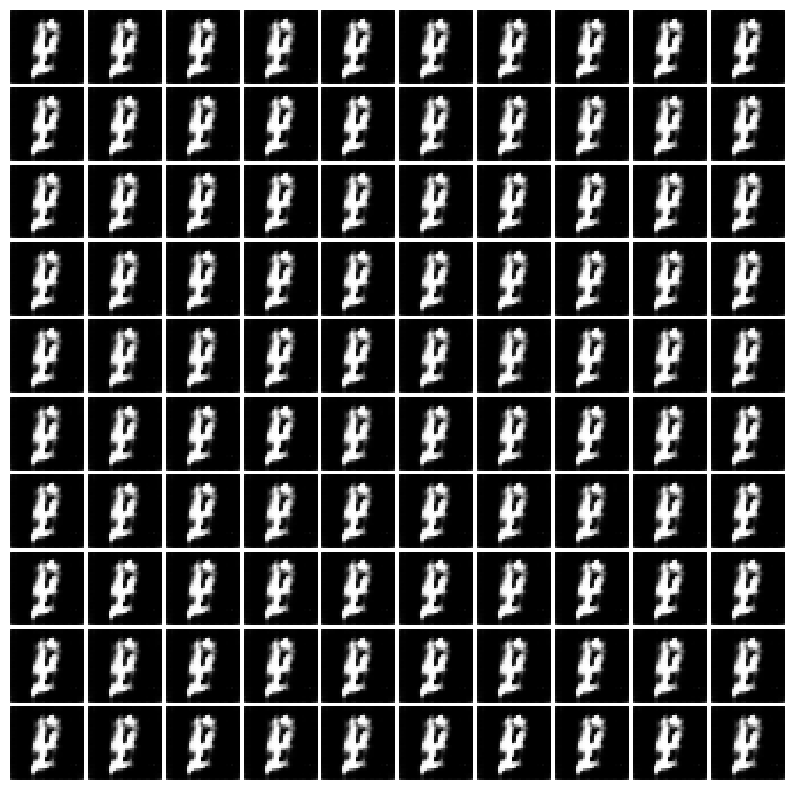
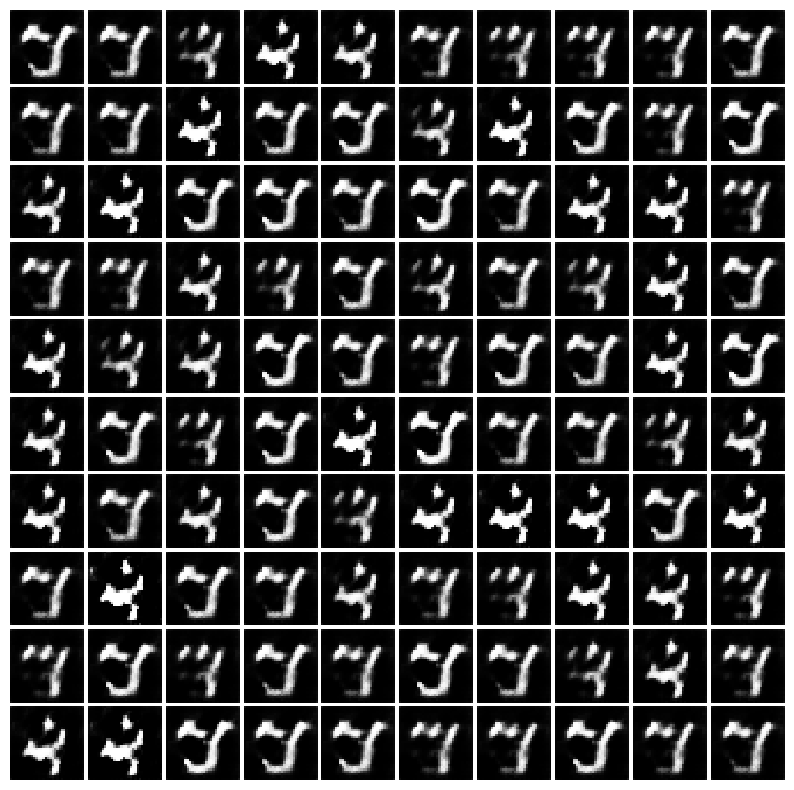
grads zeroed

Changed region(s): [[0.0302, 0.0, 0.7859, 1.0], [0.8161, 0.0, 0.9975, 1.0]]

diff --git a/improved_gan_mnist.py b/improved_gan_mnist.py
@@ -34,135 +34,73 @@ def generate_nosie(batch_size, dim=100):
 	noise = torch.randn(batch_size, dim, 1, 1)
 	return noise
 
-# class Discriminator(nn.Module):
-# 	def __init__(self):
-# 		super(Discriminator, self).__init__()
-# 		self.conv1 = nn.Sequential(
-# 			nn.Conv2d(1, 32, [5,5], stride=[1,1]),
-# 			nn.LeakyReLU(negative_slope=.01),
-# 			nn.MaxPool2d([2,2], stride=[2,2]))
-# 		self.conv2 = nn.Sequential(
-# 			nn.Conv2d(32, 64, [5,5], stride=[1,1]),
-# 			nn.LeakyReLU(negative_slope=.01),
-# 			nn.MaxPool2d([2,2], stride=[2,2]))
-# 		self.fc1 = nn.Sequential(
-# 			nn.Linear((64*5*5), (64*5*5)),
-# 			nn.LeakyReLU(negative_slope=.01))
-# 		self.fc2 = nn.Sequential(
-# 			nn.Linear((64*5*5), 1),
-# 			nn.Sigmoid())
+class Discriminator(nn.Module):
+	def __init__(self):
+		super(Discriminator, self).__init__()
+		self.conv1 = nn.Sequential(
+			nn.Conv2d(1, 32, [5,5], stride=[1,1]),
+			nn.LeakyReLU(negative_slope=.01),
+			nn.MaxPool2d([2,2], stride=[2,2]))
+		self.conv2 = nn.Sequential(
+			nn.Conv2d(32, 64, [5,5], stride=[1,1]),
+			nn.LeakyReLU(negative_slope=.01),
+			nn.MaxPool2d([2,2], stride=[2,2]))
+		self.fc1 = nn.Sequential(
+			nn.Linear((64*5*5), (64*5*5)),
+			nn.LeakyReLU(negative_slope=.01))
+		self.fc2 = nn.Sequential(
+			nn.Linear((64*5*5), 1),
+			nn.Sigmoid())
 
 
-# 	def forward(self, x, matching=False):
-# 		out = self.conv1(x)
-# 		out = self.conv2(out)
-# 		out = out.view(out.shape[0], -1)
-# 		out = self.fc1(out)
-# 		final = self.fc2(out)
-# 		if matching:
-# 			return out, final
-# 		return final
+	def forward(self, x, matching=False):
+		out = self.conv1(x)
+		out = self.conv2(out)
+		out = out.view(out.shape[0], -1)
+		out = self.fc1(out)
+		final = self.fc2(out)
+		if matching:
+			return out, final
+		return final
 
-# class Generator(nn.Module):
-# 	def __init__(self):
-# 		super(Generator, self).__init__()
-# 		self.deconv1 = nn.Sequential(
-# 			nn.ConvTranspose2d(100, 128, [2,2], stride=[1,1]),
-# 			nn.BatchNorm2d(128),
-# 			nn.ReLU())
-# 		self.deconv2 = nn.Sequential(
-# 			nn.ConvTranspose2d(128, 256, [3,3], stride=[1,1]),
-# 			nn.BatchNorm2d(256),
-# 			nn.ReLU())
-# 		self.deconv3 = nn.Sequential(
-# 			nn.ConvTranspose2d(256, 256, [4,4], stride=[2,2], padding=1),
-# 			nn.BatchNorm2d(256),
-# 			nn.ReLU())
-# 		self.deconv4 = nn.Sequential(
-# 			nn.ConvTranspose2d(256, 128, [4,4], stride=[2,2], padding=1),
-# 			nn.BatchNorm2d(128))
-# 		self.deconv5 = nn.Sequential(
-# 			nn.ConvTranspose2d(128, 1, [4,4], stride=[2,2], padding=1),
-# 			nn.Tanh())
+class Generator(nn.Module):
+	def __init__(self):
+		super(Generator, self).__init__()
+		self.deconv1 = nn.Sequential(
+			nn.ConvTranspose2d(100, 128, [2,2], stride=[1,1]),
+			nn.BatchNorm2d(128),
+			nn.ReLU())
+		self.deconv2 = nn.Sequential(
+			nn.ConvTranspose2d(128, 256, [3,3], stride=[1,1]),
+			nn.BatchNorm2d(256),
+			nn.ReLU())
+		self.deconv3 = nn.Sequential(
+			nn.ConvTranspose2d(256, 256, [4,4], stride=[2,2], padding=1),
+			nn.BatchNorm2d(256),
+			nn.ReLU())
+		self.deconv4 = nn.Sequential(
+			nn.ConvTranspose2d(256, 128, [4,4], stride=[2,2], padding=1),
+			nn.BatchNorm2d(128))
+		self.deconv5 = nn.Sequential(
+			nn.ConvTranspose2d(128, 1, [4,4], stride=[2,2], padding=1),
+			nn.Tanh())
 
-# 	def forward(self, x):
-# 		# print("x", x.shape)
-# 		out = self.deconv1(x)
-# 		out = self.deconv2(out)
-# 		out = self.deconv3(out)
-# 		out = self.deconv4(out)
-# 		out = self.deconv5(out)
-# 		return out
-
-
-	# def weight_init(m, mean, std):
-	# 	if isinstance(m, nn.ConvTranspose2d) or isinstance(m, nn.Conv2d):
-	# 		m.weight.data.normal_(mean, std)
-	# 		m.bias.data.zero_()
-
-class Generator(torch.nn.Module):
-    def __init__(self, channels):
-        super().__init__()
-        # Filters [1024, 512, 256]
-        # Input_dim = 100
-        # Output_dim = C (number of channels)
-        self.main_module = nn.Sequential(
-            # Z latent vector 100
-            nn.ConvTranspose2d(in_channels=100, out_channels=1024, kernel_size=4, stride=1, padding=0),
-            nn.BatchNorm2d(num_features=1024),
-            nn.ReLU(True),
-
-            # State (1024x4x4)
-            nn.ConvTranspose2d(in_channels=1024, out_channels=512, kernel_size=4, stride=2, padding=1),
-            nn.BatchNorm2d(num_features=512),
-            nn.ReLU(True),
-
-            # State (512x8x8)
-            nn.ConvTranspose2d(in_channels=512, out_channels=256, kernel_size=4, stride=2, padding=1),
-            nn.BatchNorm2d(num_features=256),
-            nn.ReLU(True),
-
-            # State (256x16x16)
-            nn.ConvTranspose2d(in_channels=256, out_channels=channels, kernel_size=4, stride=2, padding=1))
-            # output of main module --> Image (Cx32x32)
-
-        self.output = nn.Tanh()
-
-    def forward(self, x):
-        x = self.main_module(x)
-        return self.output(x)
+	def forward(self, x):
+		# print("x", x.shape)
+		out = self.deconv1(x)
+		out = self.deconv2(out)
+		out = self.deconv3(out)
+		out = self.deconv4(out)
+		out = self.deconv5(out)
+		return out
 
 
-class Discriminator(torch.nn.Module):
-    def __init__(self, channels):
-        super().__init__()
-        # Filters [256, 512, 1024]
-        # Input_dim = channels (Cx64x64)
-        # Output_dim = 1
-        self.main_module = nn.Sequential(
-            # Image (Cx32x32)
-            nn.Conv2d(in_channels=channels, out_channels=256, kernel_size=4, stride=2, padding=1),
-            nn.LeakyReLU(0.2, inplace=True),
+	def weight_init(m, mean, std):
+		if isinstance(m, nn.ConvTranspose2d) or isinstance(m, nn.Conv2d):
+			m.weight.data.normal_(mean, std)
+			m.bias.data.zero_()
 
-            # State (256x16x16)
-            nn.Conv2d(in_channels=256, out_channels=512, kernel_size=4, stride=2, padding=1),
-            nn.BatchNorm2d(512),
-            nn.LeakyReLU(0.2, inplace=True),
 
-            # State (512x8x8)
-            nn.Conv2d(in_channels=512, out_channels=1024, kernel_size=4, stride=2, padding=1),
-            nn.BatchNorm2d(1024),
-            nn.LeakyReLU(0.2, inplace=True))
-            # outptut of main module --> State (1024x4x4)
-
-        self.output = nn.Sequential(
-            nn.Conv2d(in_channels=1024, out_channels=1, kernel_size=4, stride=1, padding=0),
-            # Output 1
-            nn.Sigmoid())
-
-    def forward(self, x):
-        x = self.main_module(x)
-        return self.output(x)
 def create_optimizer(model, lr=.01, betas=None):
 	if betas == None:
 		optimizer = torch.optim.Adam(model.parameters(), lr=lr)
@@ -203,6 +141,25 @@ def train_gan(discriminator, generator, image_loader, num_epochs, batch_size, g_
 		for x, _ in image_loader:
 			if (x.shape[0] != batch_size):
 				continue
+				
+			# z = generate_nosie(batch_size)
+			# fake_images = generator(z)
+			# g_result = discriminator(fake_images).squeeze()
+			# g_cost = BCE(g_result, torch.ones(batch_size))
+			# g_cost.backward()
+			# g_optimizer.step()
+			# g_optimizer.zero_grad()
+
+			# d_optimizer.zero_grad()
+			# z = generate_nosie(batch_size)
+			# fake_images = generator(z)
+			# d_spred_fake = discriminator(fake_images).squeeze()
+			# d_cost_fake = BCE(d_spred_fake, torch.zeros(batch_size))
+			# d_spred_real = discriminator(real_data).squeeze()
+			# d_cost_real = BCE(d_spred_real, torch.ones(batch_size))
+			# d_cost = d_cost_real + d_cost_fake
+			# d_cost.backward()
+			# d_optimizer.step()
 			iters += 1
 			############################
 			# (1) Update D network
@@ -213,8 +170,8 @@ def train_gan(discriminator, generator, image_loader, num_epochs, batch_size, g_
 			# for p in discriminator.parameters():
 				# p.requires_grad = False # to avoid computation
 			
-			discriminator.zero_grad()
-			generator.zero_grad()
+			optimizerD.zero_grad()
+			optimizerG.zero_grad()
 			inputv = autograd.Variable(x).type(dtype)
 			d_real = discriminator(inputv)
 
@@ -245,8 +202,8 @@ def train_gan(discriminator, generator, image_loader, num_epochs, batch_size, g_
 			# for p in discriminator.parameters():
 			# 	p.requires_grad = True
 
-			discriminator.zero_grad()
-			generator.zero_grad()
+			optimizerD.zero_grad()
+			optimizerG.zero_grad()
 
 			# noise = discriminator.generate_noise(batch_size, LENGTH, NUM_NODES)
 			noise = generate_nosie(x.shape[0]).type(dtype)
@@ -269,8 +226,8 @@ def train_gan(discriminator, generator, image_loader, num_epochs, batch_size, g_
 			# 	print("Epoch", iteration)
 			# 	print("G_cost" , G_cost)
 			# 	print("D_cost", D_cost)
-		# save_EEG(fake.cpu().detach().numpy(), NUM_NODES, 200, "./generated_eegs/generated-" + str(iteration) + "-fake-cG-matching-minB")
-		# save_EEG(real.cpu().detach().numpy(), NUM_NODES, 200, "./generated_eegs/generated-" + str(iteration-1) + "-real-rG-long-norm")
+# 		# save_EEG(fake.cpu().detach().numpy(), NUM_NODES, 200, "./generated_eegs/generated-" + str(iteration) + "-fake-cG-matching-minB")
+# 		# save_EEG(real.cpu().detach().numpy(), NUM_NODES, 200, "./generated_eegs/generated-" + str(iteration-1) + "-real-rG-long-norm")
 		save_images_func(generator, epoch, iters, filename_prefix)
 		print("Epoch", epoch)
 		print("G_cost" , loss_G)
